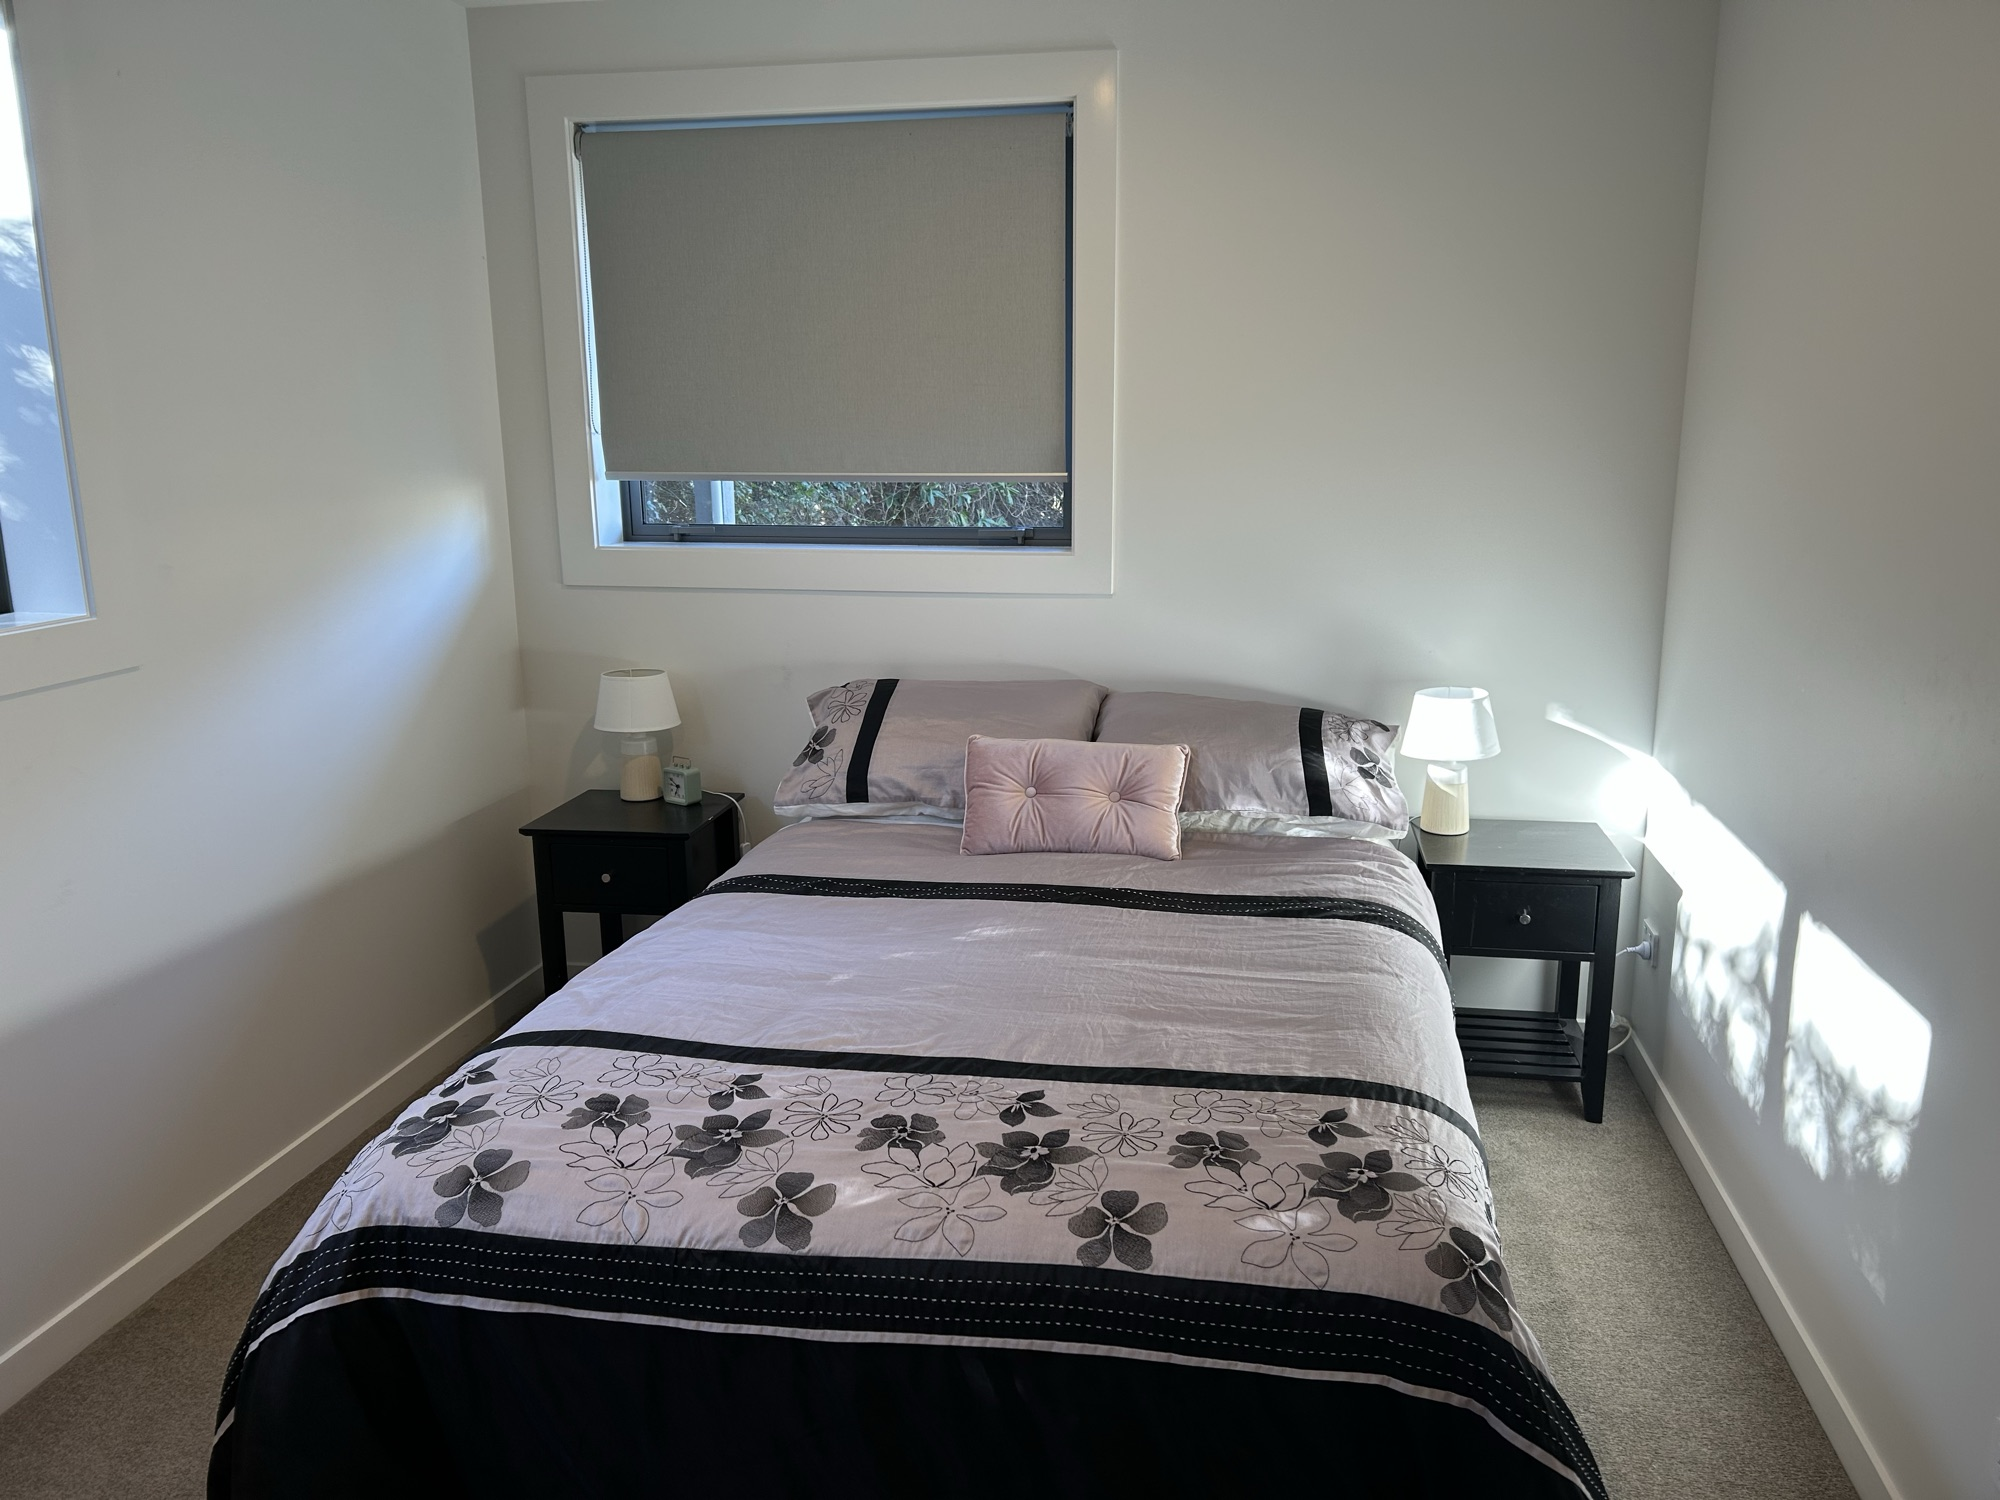
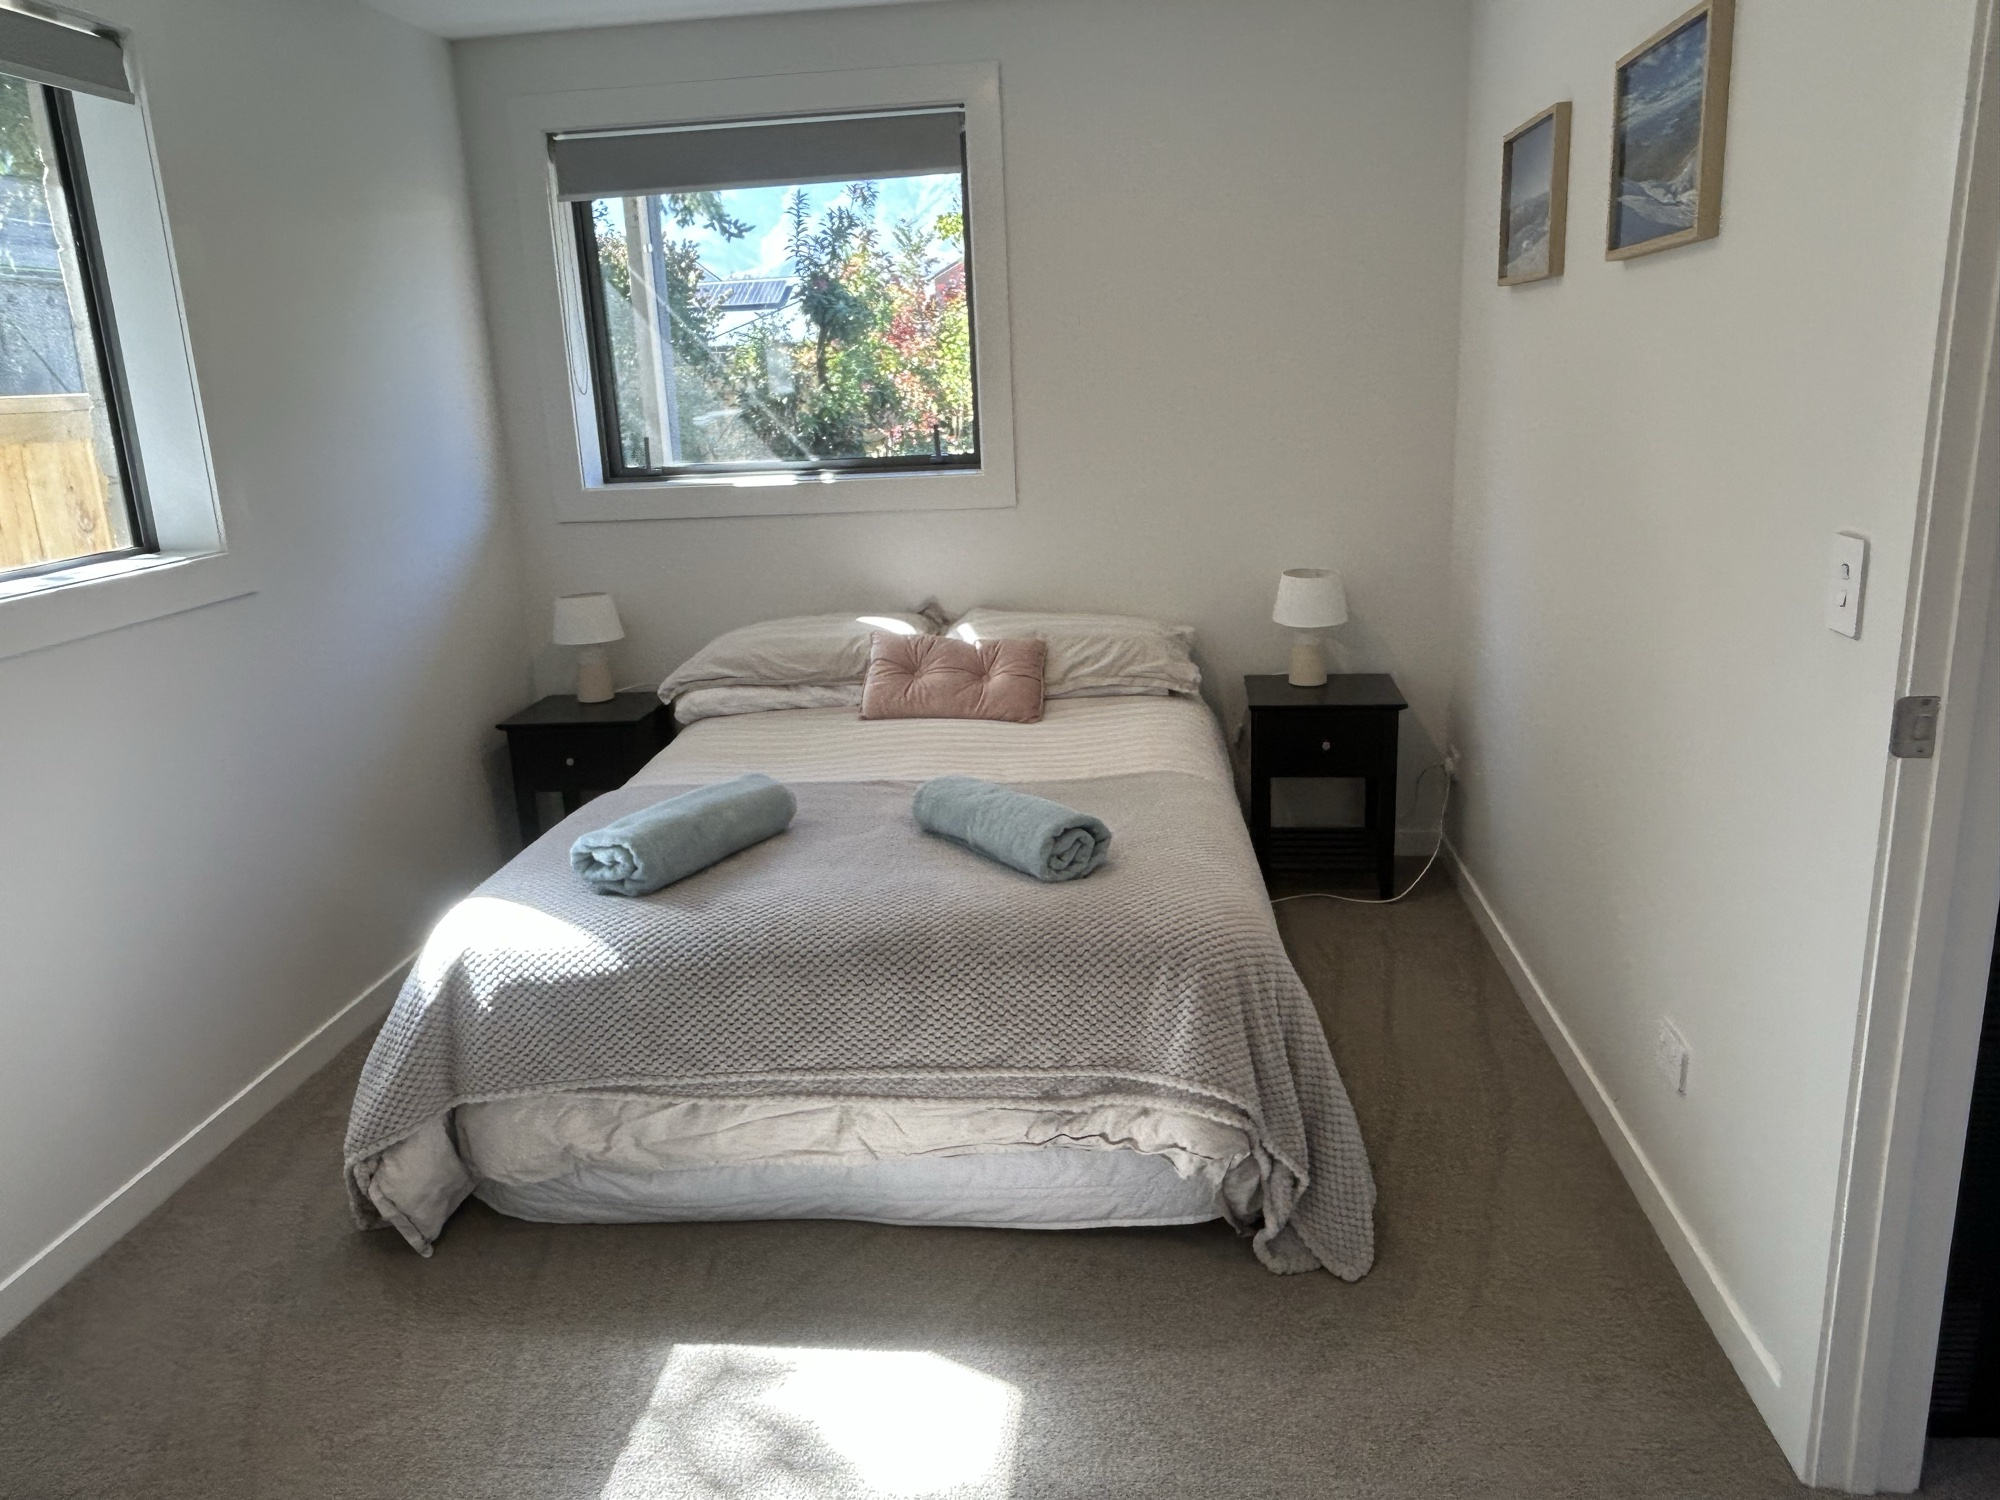
Gallery: replace the main bedroom photo with two better ones

diff --git a/src/data/gallery.ts b/src/data/gallery.ts
@@ -15,6 +15,7 @@ export const photos: GalleryPhoto[] = [
   { id: 'living-room', category: 'house', tone: 'oat' },
   { id: 'dexter', category: 'animals', tone: 'tussock' },
   { id: 'main-bedroom', category: 'house', tone: 'lake-tint' },
+  { id: 'main-bedroom-2', category: 'house', tone: 'lake-tint' },
   { id: 'chickens', category: 'animals', tone: 'tussock' },
   { id: 'kitchen', category: 'house', tone: 'oat' },
   { id: 'lake-winter', category: 'lake', tone: 'lake-tint' },

diff --git a/src/i18n/it.ts b/src/i18n/it.ts
@@ -185,6 +185,7 @@ export const it: PartialStrings = {
       'living-room': 'Il soggiorno',
       dexter: 'Dexter',
       'main-bedroom': 'La camera da letto principale',
+      'main-bedroom-2': 'La camera da letto principale',
       chickens: 'Le galline',
       kitchen: 'La cucina',
       'lake-winter': 'Lake Hāwea in inverno',

diff --git a/src/i18n/es.ts b/src/i18n/es.ts
@@ -185,6 +185,7 @@ export const es: PartialStrings = {
       'living-room': 'El salón',
       dexter: 'Dexter',
       'main-bedroom': 'El dormitorio principal',
+      'main-bedroom-2': 'El dormitorio principal',
       chickens: 'Las gallinas',
       kitchen: 'La cocina',
       'lake-winter': 'Lake Hāwea en invierno',

diff --git a/src/i18n/de.ts b/src/i18n/de.ts
@@ -185,6 +185,7 @@ export const de: PartialStrings = {
       'living-room': 'Das Wohnzimmer',
       dexter: 'Dexter',
       'main-bedroom': 'Das Hauptschlafzimmer',
+      'main-bedroom-2': 'Das Hauptschlafzimmer',
       chickens: 'Die Hühner',
       kitchen: 'Die Küche',
       'lake-winter': 'Lake Hāwea im Winter',

diff --git a/src/i18n/ja.ts b/src/i18n/ja.ts
@@ -185,6 +185,7 @@ export const ja: PartialStrings = {
       'living-room': 'リビング',
       dexter: 'Dexter',
       'main-bedroom': 'メインの寝室',
+      'main-bedroom-2': 'メインの寝室',
       chickens: 'ニワトリたち',
       kitchen: 'キッチン',
       'lake-winter': '冬の Lake Hāwea',

diff --git a/src/i18n/fr.ts b/src/i18n/fr.ts
@@ -185,6 +185,7 @@ export const fr: PartialStrings = {
       'living-room': 'Le salon',
       dexter: 'Dexter',
       'main-bedroom': 'La chambre principale',
+      'main-bedroom-2': 'La chambre principale',
       chickens: 'Les poules',
       kitchen: 'La cuisine',
       'lake-winter': 'Lake Hāwea en hiver',

diff --git a/src/i18n/nl.ts b/src/i18n/nl.ts
@@ -185,6 +185,7 @@ export const nl: PartialStrings = {
       'living-room': 'De woonkamer',
       dexter: 'Dexter',
       'main-bedroom': 'De hoofdslaapkamer',
+      'main-bedroom-2': 'De hoofdslaapkamer',
       chickens: 'De kippen',
       kitchen: 'De keuken',
       'lake-winter': 'Lake Hāwea in de winter',

diff --git a/src/i18n/en.ts b/src/i18n/en.ts
@@ -190,6 +190,7 @@ export const en = {
       'living-room': 'The living room',
       dexter: 'Dexter',
       'main-bedroom': 'The main bedroom',
+      'main-bedroom-2': 'The main bedroom',
       chickens: 'The chickens',
       kitchen: 'The kitchen',
       'lake-winter': 'Lake Hāwea in winter',

diff --git a/src/i18n/zh.ts b/src/i18n/zh.ts
@@ -185,6 +185,7 @@ export const zh: PartialStrings = {
       'living-room': '客厅',
       dexter: 'Dexter',
       'main-bedroom': '主卧',
+      'main-bedroom-2': '主卧',
       chickens: '我们的母鸡',
       kitchen: '厨房',
       'lake-winter': '冬天的 Lake Hāwea',

diff --git a/src/i18n/ko.ts b/src/i18n/ko.ts
@@ -185,6 +185,7 @@ export const ko: PartialStrings = {
       'living-room': '거실',
       dexter: 'Dexter',
       'main-bedroom': '안방',
+      'main-bedroom-2': '안방',
       chickens: '닭들',
       kitchen: '주방',
       'lake-winter': '겨울의 Lake Hāwea',
